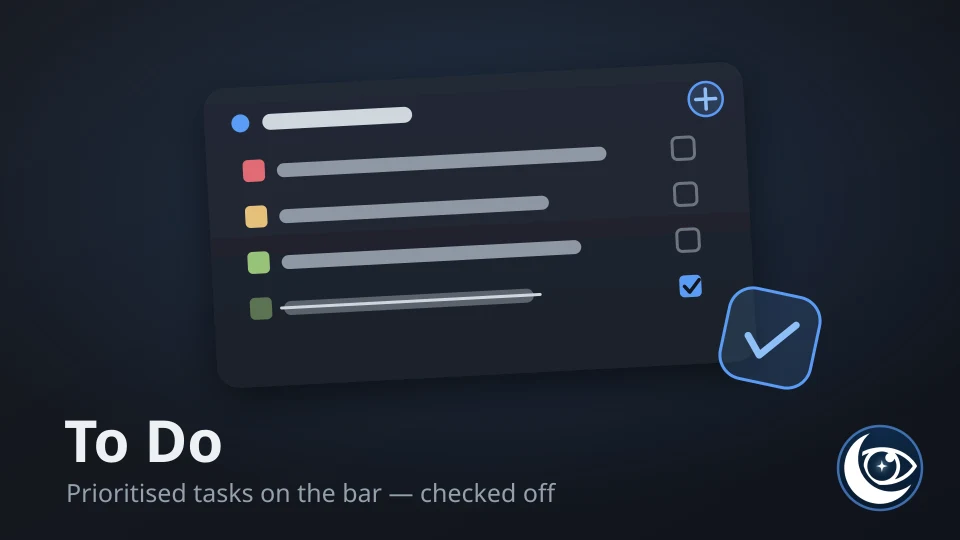
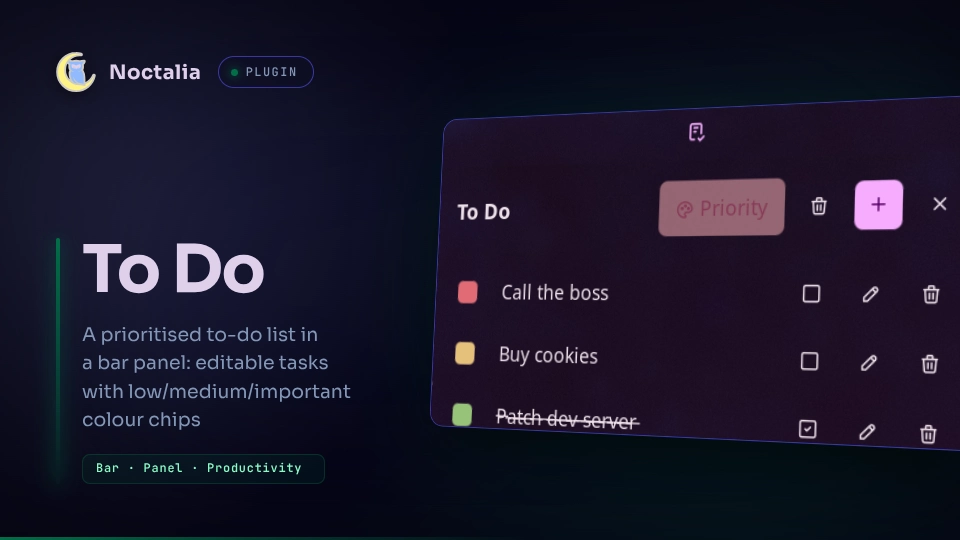
To Do 0.0.6: community-repo compliance
Tags from the allowed list, store-first install section, no out-of-dir
README links, drop it.json (community repo is en.json-only), new
thumbnail from the official generator.

diff --git a/todo/README.md b/todo/README.md
@@ -80,34 +80,17 @@ automatically. The plugin runs no external programs.
 
 ## Install
 
-noctalia discovers plugins from configured sources. By convention the plugin
-id `nightwatch75/todo` maps to the `todo/` subdirectory of the source repo.
+Install **To Do** from Noctalia's plugin store (*Settings → Plugins*), then add
+the widget to a bar from *Settings → Bar*. Plugin options live in
+*Settings → Plugins*.
 
-Add the [noctalia-plugins](../) repo as a git source and enable the plugin in
-`~/.config/noctalia/config.toml`:
+For local development, add your working copy as a path source instead
+(`.luau` edits hot-reload):
 
-```toml
-[plugins]
-enabled = ["nightwatch75/todo"]
-
-[[plugins.source]]
-kind = "git"
-name = "nightwatch75"
-location = "https://github.com/nightwatch75/noctalia-plugins.git"
+```sh
+noctalia msg plugins source add dev path /path/to/plugins
+noctalia msg plugins enable nightwatch75/todo
 ```
-
-For local development, point a path source at your working copy instead
-(noctalia hot-reloads `.luau` changes):
-
-```toml
-[[plugins.source]]
-kind = "path"
-name = "dev"
-location = "/path/to/noctalia-plugins"
-```
-
-Restart noctalia, then add the **To Do** widget to a bar from Settings → Bar.
-Plugin options live in Settings → Plugins.
 
 ## Requirements
 
@@ -116,4 +99,4 @@ Plugin options live in Settings → Plugins.
 
 ## License
 
-MIT — see [LICENSE](../LICENSE).
+MIT.